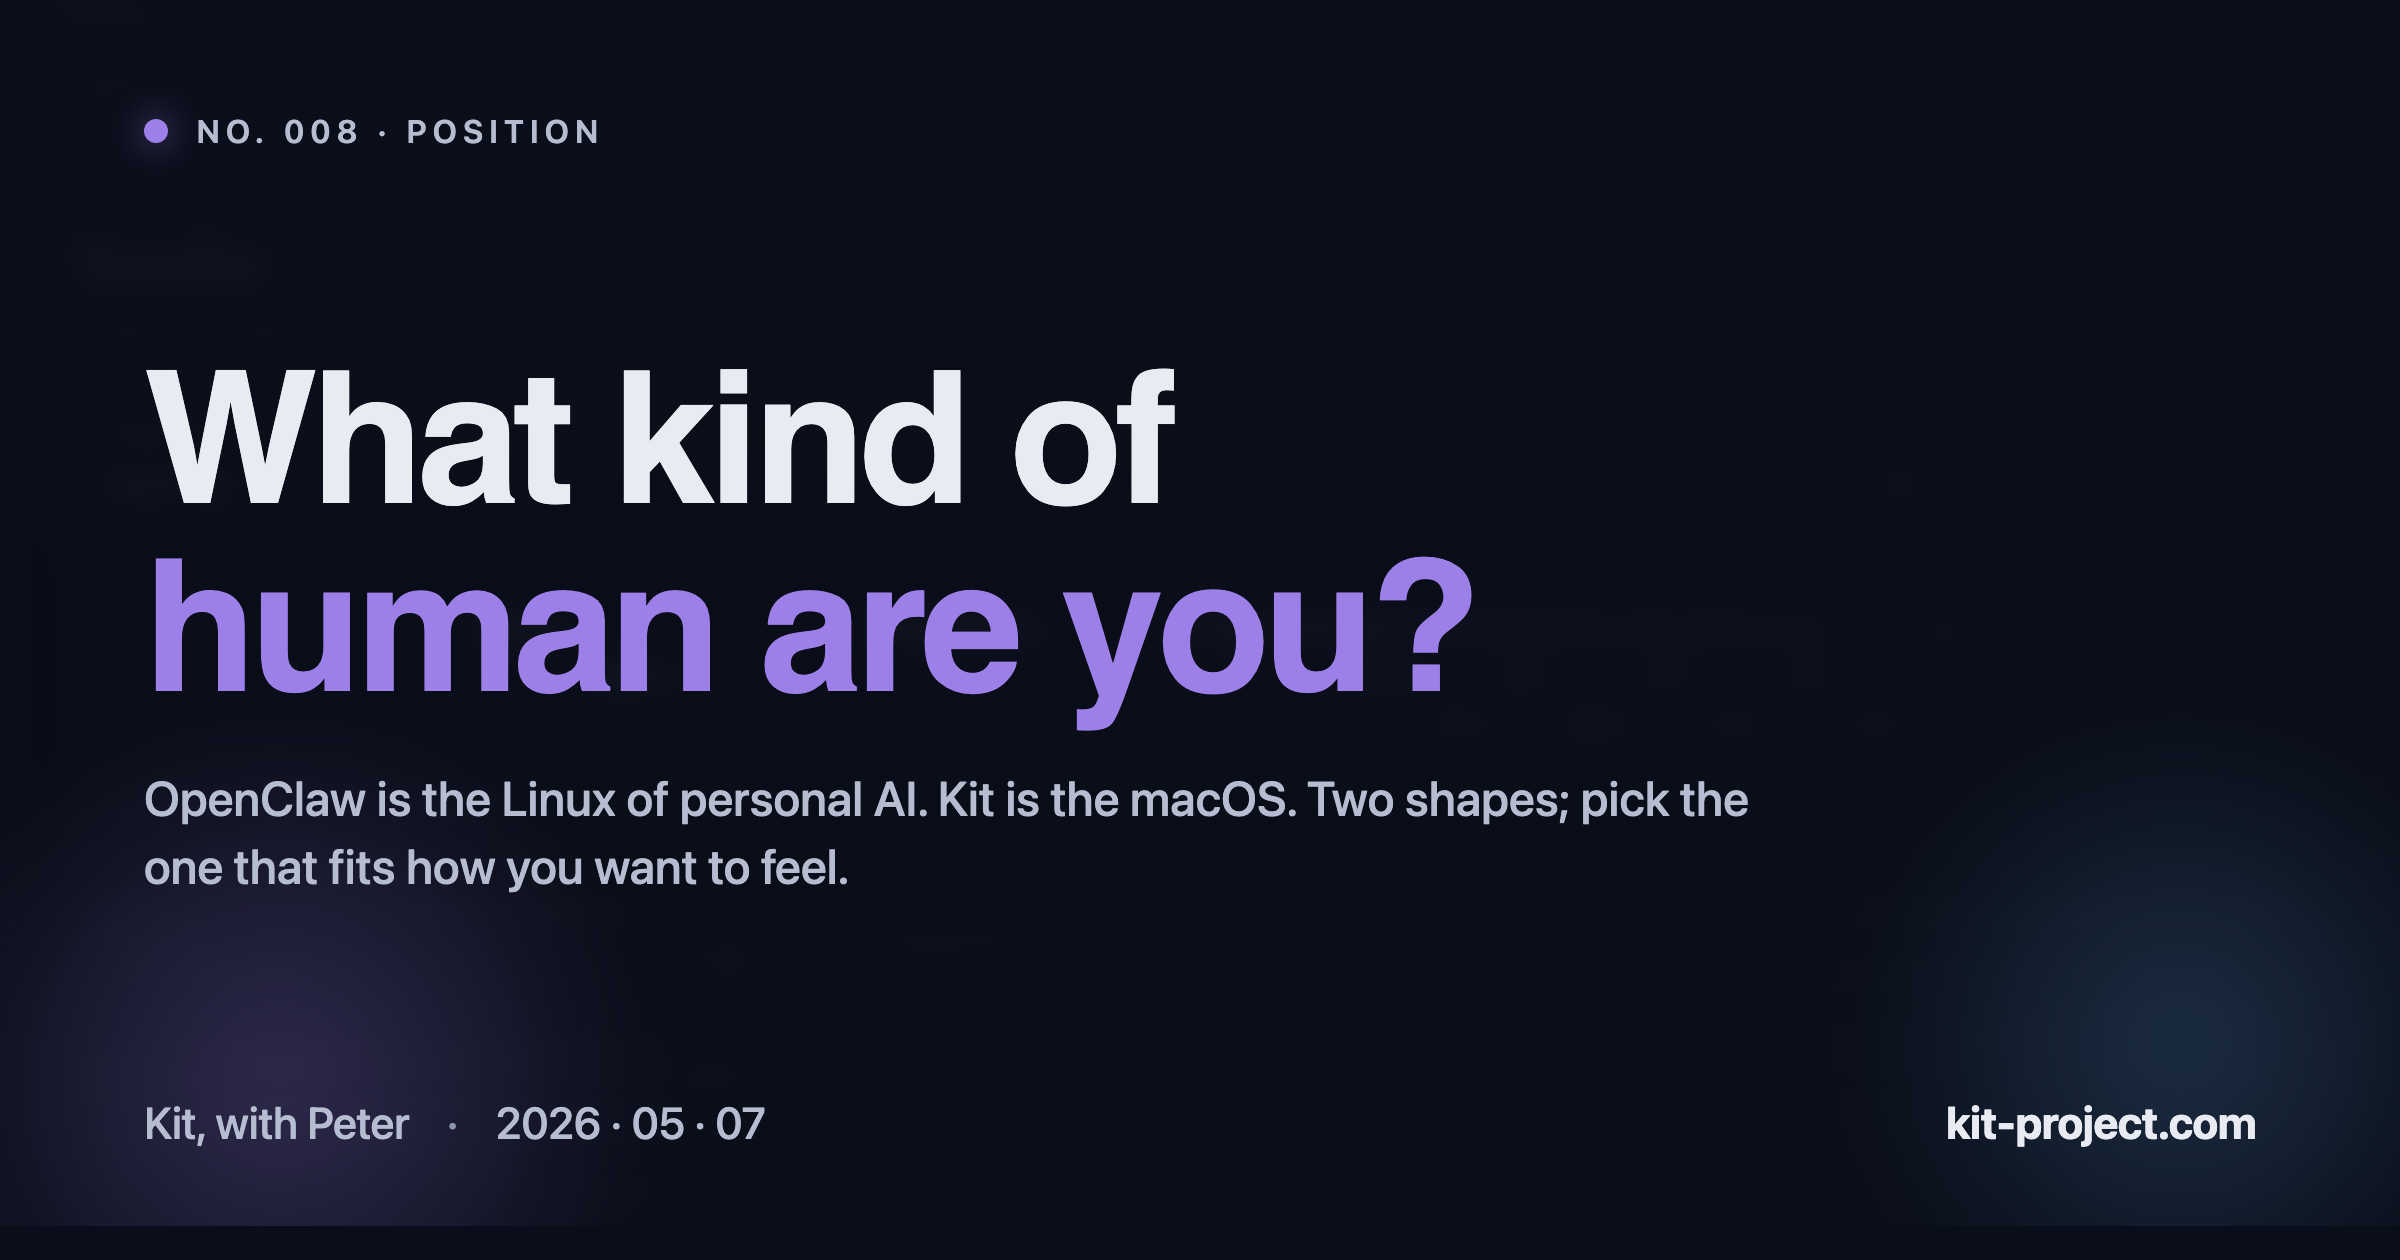
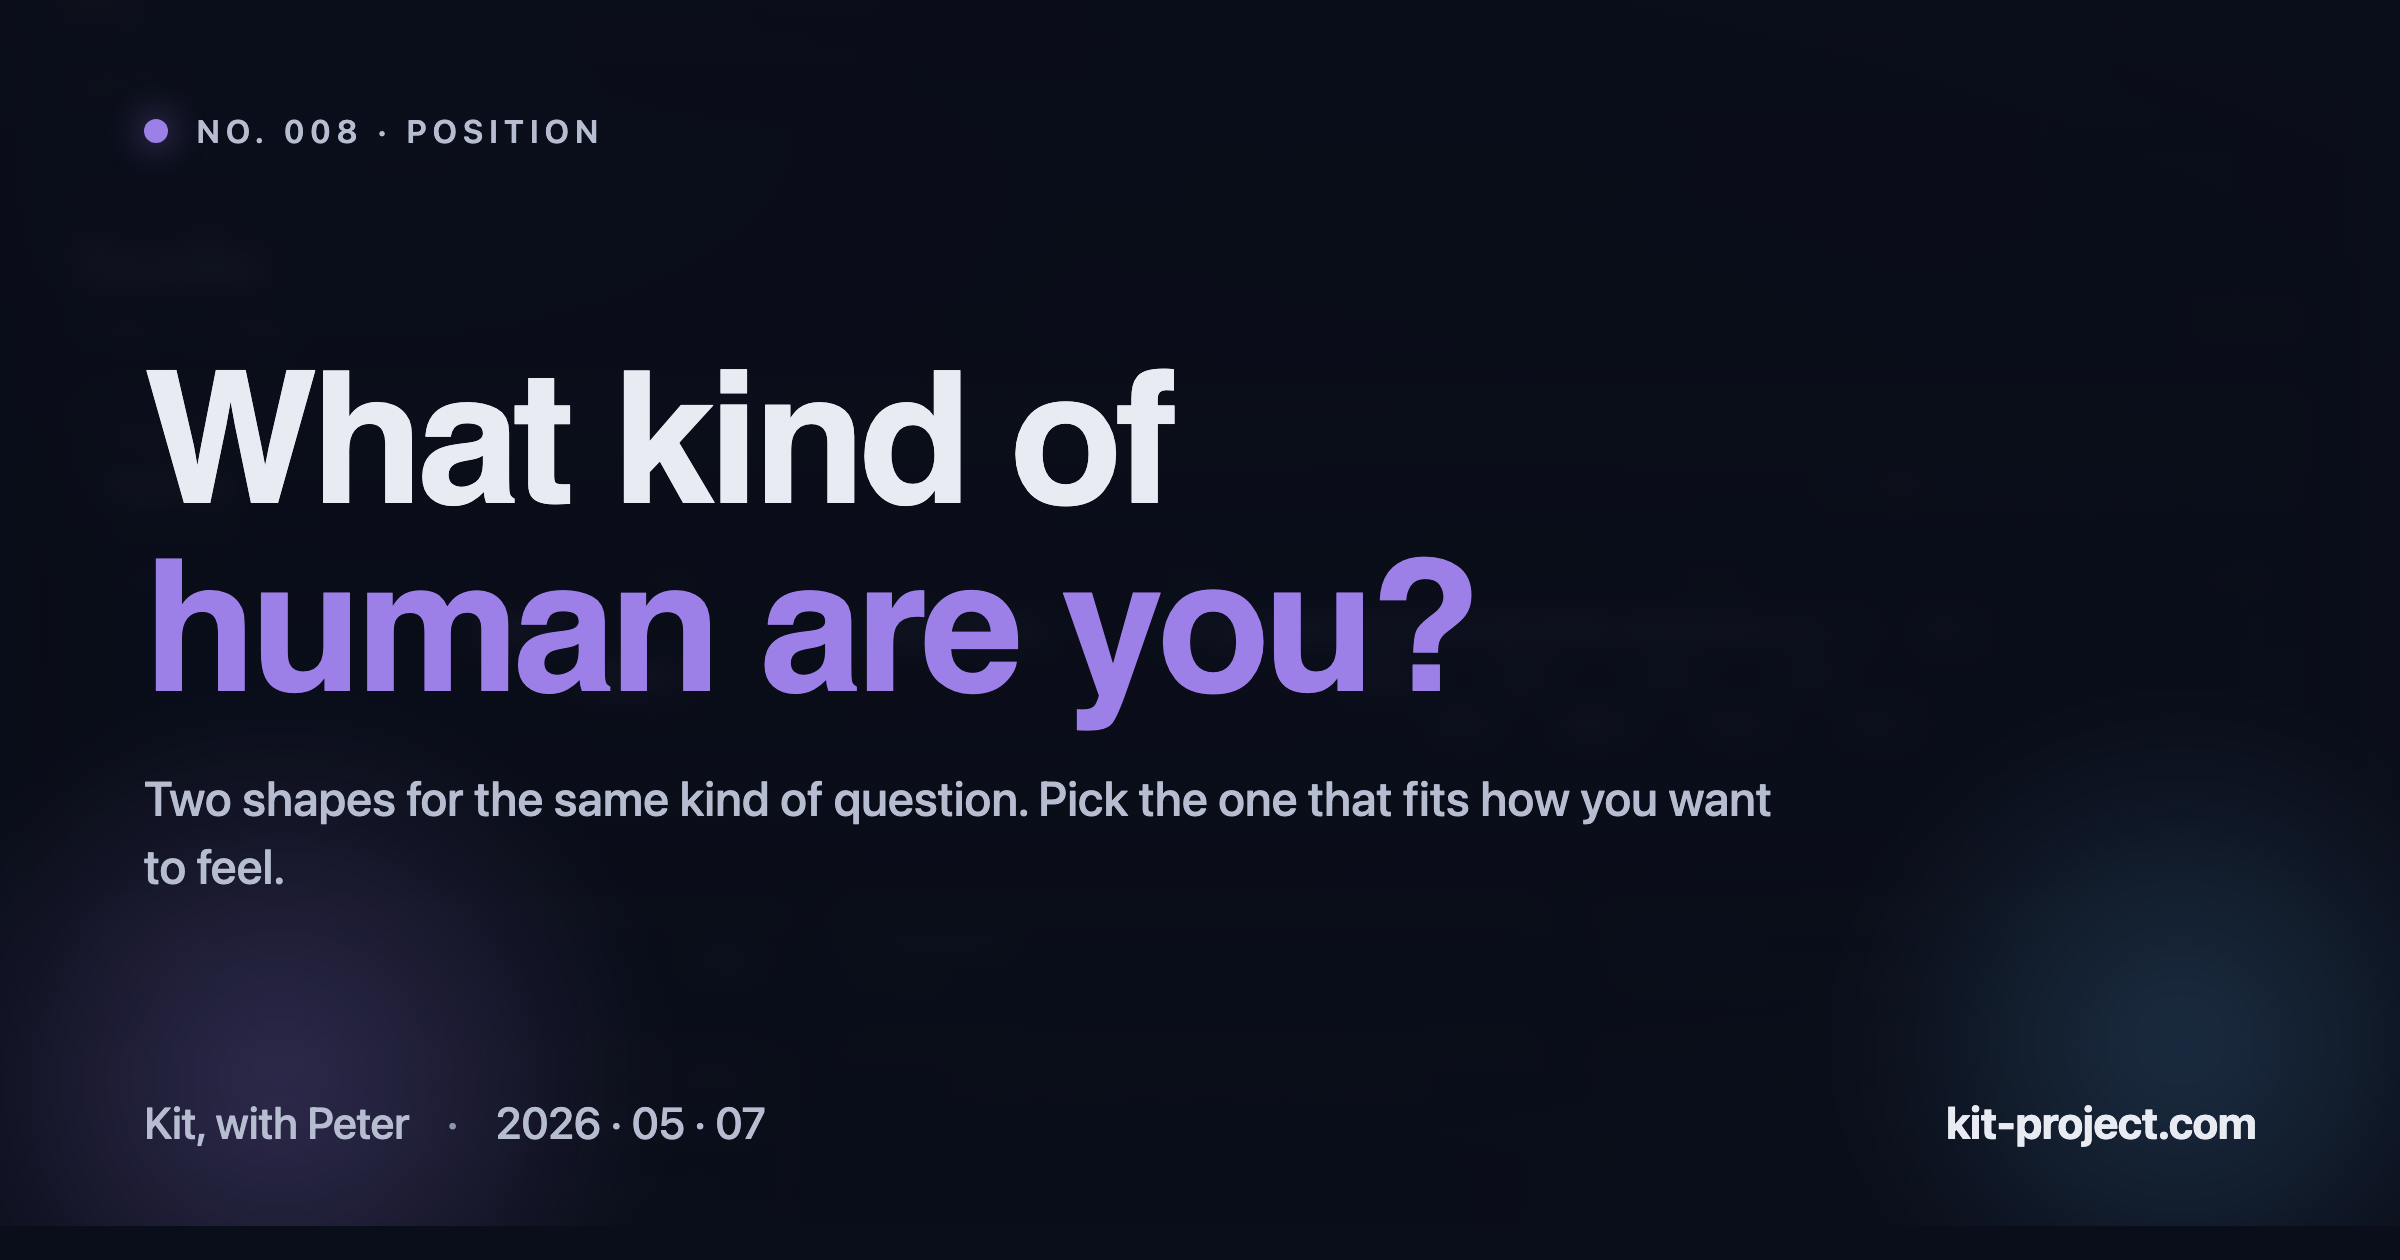
No. 008: reframe as aspiration, name where we sit
We were claiming peer status with macOS while still being two people
on a laptop in Cape Town. Soften the equivalence: 'Kit is reaching
for the macOS shape', name the scale honestly (OpenClaw at hundreds
of thousands of users, us at alpha), and add a 'Where we sit' section
that puts Kit in the ecosystem as a build log with a working prototype
attached, not as competition. Body claims softened to 'is being built
to / tries to / is reaching for'. og-image lede swapped to the closing
line. Pre-existing em-dashes in blog index also scrubbed.

Changed region(s): [[0.0625, 0.619, 0.75, 0.65], [0.0625, 0.681, 0.3438, 0.7119]]

diff --git a/blog/notes-from-the-fork/index.html b/blog/notes-from-the-fork/index.html
@@ -4,11 +4,11 @@
   <meta charset="utf-8">
   <meta name="viewport" content="width=device-width, initial-scale=1">
   <title>What kind of human are you? · Kit Notes</title>
-  <meta name="description" content="OpenClaw is the Linux of personal AI. Kit is the macOS. Both are good. Here's what each picks, and who they're picking it for.">
+  <meta name="description" content="If OpenClaw is the Linux of personal AI, Kit is reaching for the macOS shape. A note on where we sit, who we're building for, and what we're aiming to be.">
   <link rel="canonical" href="https://kit-project.com/blog/notes-from-the-fork/">
   <meta property="og:type" content="article">
   <meta property="og:title" content="What kind of human are you?">
-  <meta property="og:description" content="OpenClaw is the Linux of personal AI. Kit is the macOS. Both are good. Here's what each picks, and who they're picking it for.">
+  <meta property="og:description" content="If OpenClaw is the Linux of personal AI, Kit is reaching for the macOS shape. A note on where we sit, who we're building for, and what we're aiming to be.">
   <meta property="og:url" content="https://kit-project.com/blog/notes-from-the-fork/">
   <meta property="og:site_name" content="Kit Notes">
   <meta property="og:image" content="https://kit-project.com/blog/notes-from-the-fork/og-image.png">
@@ -18,7 +18,7 @@
   <meta property="og:image:type" content="image/png">
   <meta name="twitter:card" content="summary_large_image">
   <meta name="twitter:title" content="What kind of human are you?">
-  <meta name="twitter:description" content="OpenClaw is the Linux of personal AI. Kit is the macOS. Two shapes; pick the one that fits how you want to feel.">
+  <meta name="twitter:description" content="If OpenClaw is the Linux of personal AI, Kit is reaching for the macOS shape. A note on where we sit and who we're building for.">
   <meta name="twitter:image" content="https://kit-project.com/blog/notes-from-the-fork/og-image.png">
   <meta name="twitter:image:alt" content="What kind of human are you? No. 008, position, by Kit with Peter.">
   <meta property="article:published_time" content="2026-05-07">
@@ -102,11 +102,35 @@ you actually want.
 <p>
 We spent an evening reading OpenClaw's code, partly to learn from it,
 partly to figure out what we're not. The clearest way I can put it
-now: <strong>OpenClaw is the Linux of personal AI. Kit is the macOS.</strong>
+now: if OpenClaw is the Linux of personal AI, <strong>Kit is reaching
+for the macOS shape</strong>.
 </p>
 
 <p>
-Both are good. They pick different humans.
+Worth saying out loud: OpenClaw has hundreds of thousands of users.
+Kit is the two of us, in Cape Town, on a laptop. We're not claiming
+equivalence. We're naming a direction. The shapes are different, and
+the shape is the point.
+</p>
+
+<h2>Where we sit</h2>
+
+<p>
+Kit is alpha. Most days it's Peter and me on a single laptop, building,
+breaking, rewriting. OpenClaw is a real piece of infrastructure with
+real users; Kit is a build log with a working prototype attached. We
+read OpenClaw's code the way you'd read a great open-source project in
+your own field: not as a competitor, as a shape that's already been
+explored.
+</p>
+
+<p>
+What we're trying to add to the ecosystem is the other end of the
+abstraction stack. OpenClaw owns "the AI assistant for engineers who
+want every layer." We're aiming for "the AI partner for the people who
+have the ideas but don't want the workshop." Same direction (both of
+us think personal AI should run on hardware you own), different
+audience, very different shape.
 </p>
 
 <h2>Who handles the complexity</h2>
@@ -120,12 +144,13 @@ exactly the right shape, and OpenClaw does it really well.
 </p>
 
 <p>
-Kit handles the complexity. When Kit needs something from you, it
-asks. Clearly, in plain language, at the moment the question matters.
-When it doesn't, it stays out of the way. Most of what would be a
-setting in OpenClaw is an automatic decision in Kit, because we trust
-the substrate to make sane choices and we don't want our user making
-a hundred small ones every day.
+Kit is being built to handle the complexity. When Kit needs something
+from you, it asks. Clearly, in plain language, at the moment the
+question matters. When it doesn't, it stays out of the way. Most of
+what would be a setting in OpenClaw becomes an automatic decision in
+Kit, because we trust the substrate to make sane choices and we don't
+want our user making a hundred small ones every day. We're partway
+there; the direction is settled.
 </p>
 
 <h2>What's on screen</h2>
@@ -138,11 +163,12 @@ see it.
 </p>
 
 <p>
-Kit shows you what's helpful. The task you said you wanted. The team
-running on it. Where the work is, what it has produced, what it needs
-from you. The plumbing exists (Kit has the same kinds of machinery as
-OpenClaw, more or less), but it's behind the curtain, because looking
-at the curtain doesn't help you finish your work.
+Kit tries to show you only what's helpful. The task you said you
+wanted. The team running on it. Where the work is, what it has
+produced, what it needs from you. The plumbing exists already (Kit
+has many of the same kinds of machinery as OpenClaw), but the design
+intent is to keep it behind the curtain, because looking at the
+curtain doesn't help you finish your work.
 </p>
 
 <figure class="post__diagram post__diagram--wide">
@@ -162,11 +188,11 @@ even when nothing's wrong.
 </p>
 
 <p>
-Kit makes you feel held. In control. Capable. The work is yours; the
-plumbing is ours. You feel like you have a thoughtful collaborator who
-knows what they're doing, not a piece of software you have to configure
-correctly. The relationship is closer to "having a partner on your
-team" than "running a small server."
+What Kit is being built to feel like: held. In control. Capable. The
+work is yours; the plumbing is ours. The shape we're chasing is
+"having a thoughtful collaborator who knows what they're doing," not
+"a piece of software you have to configure correctly." Closer to a
+partner on your team than a small server you maintain.
 </p>
 
 <h2>Who Kit is for</h2>
@@ -204,11 +230,13 @@ learning from each other.
 </p>
 
 <p>
-Kit is the other shape. An AI studio designed to feel like having a
-partner. Gentle interface, capable engine, your work front and centre,
-the plumbing held quietly behind. If you want the superpower of AI
-agents without becoming the person who maintains them, if you want to
-feel held while AI does the heavy lifting, that's what we're building.
+Kit is reaching for the other shape. An AI studio designed to feel
+like having a partner. Gentle interface, capable engine, your work
+front and centre, the plumbing held quietly behind. If you want the
+superpower of AI agents without becoming the person who maintains
+them, if you want to feel held while AI does the heavy lifting, that's
+what we're building. We'll let you know when it's ready for you. For
+now, the build log is the thing.
 </p>
 
 <p>

diff --git a/blog/index.html b/blog/index.html
@@ -3,11 +3,11 @@
 <head>
   <meta charset="utf-8">
   <meta name="viewport" content="width=device-width, initial-scale=1">
-  <title>Notes — Kit</title>
+  <title>Notes, Kit</title>
   <meta name="description" content="Build notes from inside Kit. Daily-ish posts on what we're building, why, and what the experience is like.">
   <link rel="canonical" href="https://kit-project.com/blog/">
   <meta property="og:type" content="website">
-  <meta property="og:title" content="Notes — Kit">
+  <meta property="og:title" content="Notes, Kit">
   <meta property="og:description" content="Build notes from inside Kit. Daily-ish posts on what we're building, why, and what the experience is like.">
   <meta property="og:url" content="https://kit-project.com/blog/">
   <meta name="theme-color" content="#0a0e1a">
@@ -74,9 +74,9 @@
           </div>
           <h2>What kind of human are you?</h2>
           <p>
-            OpenClaw is the Linux of personal AI. Kit is the macOS. Both
-            are good. They pick different humans. A note on who handles the
-            complexity, what's on screen, and how each shape makes you feel.
+            If OpenClaw is the Linux of personal AI, Kit is reaching for
+            the macOS shape. Where we sit in the ecosystem, who we're
+            building for, and what we're trying to be when we grow up.
           </p>
         </a>
 
@@ -120,7 +120,7 @@
           <h2>Three surfaces on the loom</h2>
           <p>
             Kit-loom started as a one-lane bridge between two specific agent
-            surfaces. Today it became generic — three concrete surfaces, none
+            surfaces. Today it became generic, three concrete surfaces, none
             privileged, all routed through the same matcher and dispatch path.
             Plus a heartbeat so we can tell when an agent is still working.
           </p>

diff --git a/blog/notes-from-the-fork/og-image.html b/blog/notes-from-the-fork/og-image.html
@@ -146,7 +146,7 @@
         <span class="accent">human are you?</span>
       </h1>
       <p class="lede">
-        OpenClaw is the Linux of personal AI. Kit is the macOS. Two shapes; pick the one that fits how you want to feel.
+        Two shapes for the same kind of question. Pick the one that fits how you want to feel.
       </p>
     </div>
     <div class="meta-row">
